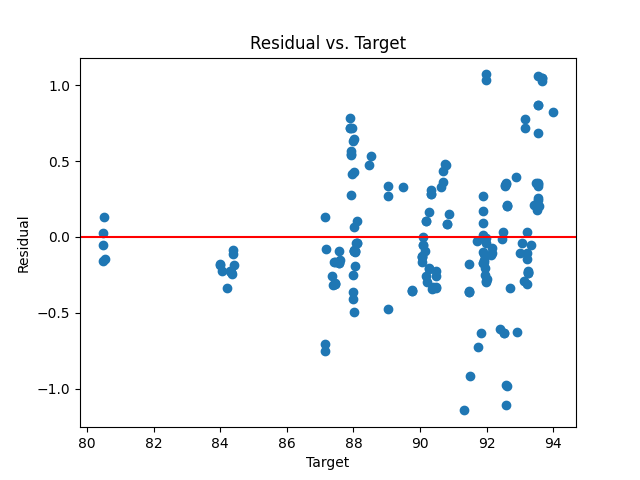
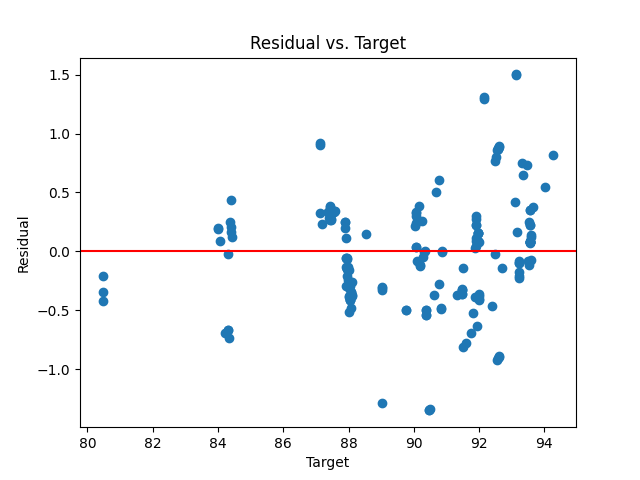
prototyping

diff --git a/main.py b/main.py
@@ -6,60 +6,103 @@ import pandas
 import statsmodels.api as statistics
 import scipy
 
-# ************************************************** Set up logging ******************************************************
+# ************************************************** Set up pandas df ******************************************************
+
+# Set pandas to display all rows and columns
+pandas.set_option('display.max_rows', None)
+pandas.set_option('display.max_columns', None)
+pandas.set_option('display.width', None)
+pandas.set_option('display.max_colwidth', None)
+
+# ************************************************** Set up logging ********************************************************
+
 logger = io_utilities.init_logger()
+logger.info(tools.get_header_separator() + "INITIALIZATION:")
 logger.info("Data postprocessing pipeline started...")
 
-# *************************************************** Select files *******************************************************
+# *************************************************** Select files *********************************************************
+
 result_file = io_utilities.select_file()
 logger.info("Result file selected: " + result_file)
 
-predictors_file = io_utilities.select_file()
-logger.info("Predictors file selected: " + predictors_file)
+dataset_file = io_utilities.select_file()
+logger.info("Dataset file selected: " + dataset_file)
 
-target_file = io_utilities.select_file()
-logger.info("Target file selected: " + target_file)
+# ************************************************* Create residuals dataframe *********************************************
 
-# ************************************************* Create dataframes ***************************************************
-regression_result = pandas.read_csv(result_file, sep = io_utilities.guess_delimiter(result_file))
+result = pandas.read_csv(result_file, sep = io_utilities.guess_delimiter(result_file))
+dataset = pandas.read_csv(dataset_file, sep = io_utilities.guess_delimiter(dataset_file))
+
 # TODO: remove last row
-regression_result = regression_result.drop(regression_result.index[-1])
-logger.info("Regression result data frame created.")
+result = result.drop(result.index[-1])
+logger.info("Regression result data frame created with shape: " + str(result.shape))
 
-predictors = pandas.read_csv(predictors_file, sep = io_utilities.guess_delimiter(predictors_file))
-logger.info("Predictors data frame created.")
+predictor = dataset.iloc[:, :-1]
+target = dataset.iloc[:, -1]
 
-target = pandas.read_csv(target_file, sep = io_utilities.guess_delimiter(target_file))
-logger.info("Predictors data frame created.")
-
-# elastic net regression
-logger.info("Elastic net regression started...")
-elastic_net = tools.elastic_net_regression(predictors, target)
+logger.info("Predictor data frame created with shape: " + str(predictor.shape))
+logger.info("Target data frame created with shape: " + str(target.shape))
 
 # ****************************************************** Basic info ********************************************************
-source.log_basic_info(regression_result, "Regression result")
-# ***************************************************** Correlation ********************************************************
-logger.info('\n' + str(predictors.corr()))
+
+logger.info(tools.get_header_separator() + 'C++ EVOREGR REGRESSION RESULT BASIC INFO:' + '\n' + str(result.describe()))
+
+source.elastic_net_regression(predictor, target)
+
+# **************************************  Pearson correlation coefficient matrix *******************************************
+
+logger.info(tools.get_header_separator() + "COVARIANCE MATRIX:")
+logger.info("Covariance matrix: \n" + str(dataset.corr()))
+
 # ************************************************  Residuals analyses  ****************************************************
-visualize.residuals_plot(regression_result.iloc[:, 0], regression_result.iloc[:, 2])
-# residuals independence test
-logger.info("Residuals independence test:")
-durbin_watson_value = statistics.stats.stattools.durbin_watson(regression_result.iloc[:, 2])
-logger.info("Durbin-Watson test: " + str(durbin_watson_value))
+
+logger.info(tools.get_header_separator() + "RESIDUALS HOMOSCEDASTICITY:")
+
+# export residuals - y plot
+visualize.residuals_plot(result.iloc[:, 0], result.iloc[:, 2])
+logger.info("Residuals simple plot exported.")
+
+# export residuals QQ plot
+visualize.qq_residuals_plot(result.iloc[:, 2])
+logger.info("Residuals QQ plot exported.")
+
+# residuals autocorrelation test
+logger.info(tools.get_header_separator() + "RESIDUALS AUTOCORRELATION:")
+durbin_watson_value = statistics.stats.stattools.durbin_watson(result.iloc[:, 2])
+
+interpretation = ""
+if durbin_watson_value < 1.5:
+    interpretation = "Positive autocorrelation"
+elif durbin_watson_value > 2.5:
+    interpretation = "Negative autocorrelation"
+else:
+    interpretation = "No autocorrelation"
+
+logger.info(f'Durbin-Watson test value: {durbin_watson_value}, Interpretation: {interpretation}')
+
 # ************************************************ Residuals normality *****************************************************
-# normality test
-logger.info("Normality tests:")
-jb_value, p_value, skewness, kurtosis = statistics.stats.stattools.jarque_bera(regression_result.iloc[:, 2])
-k2, p_value = scipy.stats.shapiro(regression_result.iloc[:, 2])
-result = scipy.stats.anderson(regression_result.iloc[:, 2])
-logger.info("Jarque-Bera test: " + str(jb_value) + " p-value: " + str(p_value) + " skewness: " + str(skewness) + " kurtosis: " + str(kurtosis))
-logger.info("Shapiro-Wilk test: " + str(k2) + " p-value: " + str(p_value))
-logger.info("Anderson-Darling test: " + str(result))
-# ************************************************* Heteroscedasticity *****************************************************
-# qq plot
-visualize.qq_residuals_plot(regression_result.iloc[:, 2])
-# Heteroscedasticity tests
-logger.info("Heteroscedasticity tests:")
-test = statistics.stats.het_breuschpagan(regression_result.iloc[:, 2], predictors)
-labels = ['LM Statistic', 'LM-Test p-value', 'F-Statistic', 'F-Test p-value']
-logger.info("Breusch-Pagan test: " + str(dict(zip(labels, test))))
+
+logger.info(tools.get_header_separator() + "RESIDUALS NORMALITY TESTS:")
+
+significance_level = 0.05
+
+# Jarque-Bera test
+jb_value, p_value, skewness, kurtosis = statistics.stats.stattools.jarque_bera(result.iloc[:, 2])
+jb_interpretation = "Jarque-Bera test: Fail to reject the null hypothesis, data has a normal distribution." if p_value > significance_level else "Jarque-Bera test: Reject the null hypothesis, data does not have a normal distribution."
+logger.info(f"Jarque-Bera test: {jb_value}, p-value: {p_value}, skewness: {skewness}, kurtosis: {kurtosis}")
+logger.info(f"Significance level: {significance_level}, interpretation: {jb_interpretation}")
+
+# Shapiro-Wilk test
+k2, p_value = scipy.stats.shapiro(result.iloc[:, 2])
+sw_interpretation = "Shapiro-Wilk test: Fail to reject the null hypothesis, data has a normal distribution." if p_value > significance_level else "Shapiro-Wilk test: Reject the null hypothesis, data does not have a normal distribution."
+logger.info(f"Shapiro-Wilk test: {k2}, p-value: {p_value}")
+logger.info(f"Significance level: {significance_level}, interpretation: {sw_interpretation}")
+
+# Anderson-Darling test
+result = scipy.stats.anderson(result.iloc[:, 2])
+ad_interpretation = "Anderson-Darling test: Fail to reject the null hypothesis, data has a normal distribution." if result.statistic < result.critical_values[2] else "Anderson-Darling test: Reject the null hypothesis, data does not have a normal distribution."
+logger.info(f"Anderson-Darling test statistic: {result.statistic}, critical value at 5% significance level: {result.critical_values[2]}")
+logger.info(f"Significance level: {significance_level}, interpretation: {ad_interpretation}")
+
+
+

diff --git a/src/tools.py b/src/tools.py
@@ -1,33 +1,5 @@
-from sklearn import linear_model
-from sklearn import model_selection
-import pandas
+def get_header_separator():
+    return '*' * 80 + ' '
 
-def elastic_net_regression(predictor, target, test_size = 0.2, random_state = None):
-    
-    # split the data into training and test sets
-    X_train, X_test, y_train, y_test = model_selection.train_test_split(predictor, target, test_size = test_size, random_state = random_state)
-    
-    elastic_net = linear_model.LinearRegression()
-    elastic_net.fit(X_train, y_train)
-    
-    # Make predictions on the test set
-    y_pred = elastic_net.predict(X_train)
-    
-    y_train = 10**y_train.squeeze()
-    y_pred = 10**y_pred.squeeze()
 
-    # Calculate the errors
-    errors = y_train - y_pred
-
-    # Create a DataFrame with y_test, y_pred, and errors
-    df = pandas.DataFrame({'Actual': y_train, 'Predicted': y_pred, 'Error': errors})
-    
-    print("Elastic Net Regression score: ", elastic_net.score(X_test, y_test))
-    
-    print("Elastic Net Regression coefficients: \n", elastic_net.coef_)
-    
-    print("Elastic Net Regression intercept: ", elastic_net.intercept_)
-    
-    print("Elastic Net residuals info: \n", df.describe())
-    
     

diff --git a/src/source.py b/src/source.py
@@ -1,4 +1,9 @@
 import logging
+from sklearn import linear_model
+from sklearn import model_selection
+import statsmodels.api as sm
+import pandas
+import numpy
 
 logger = logging.getLogger('DATA POSTPROCESSING')
 
@@ -9,4 +14,27 @@ def log_basic_info(data_frame, title):
     log_message += '\n' + str(data_frame.describe())
     log_message += '\n' + '-' * 60
     logger.info(log_message)
+
+def elastic_net_regression(predictor, target, test_size = 0.2, random_state = None):
+    
+    # split the data into training and test sets
+    X_train, X_test, y_train, y_test = model_selection.train_test_split(predictor, target, test_size = test_size, random_state = random_state)
+    
+    elastic_net = linear_model.LinearRegression()
+    result = elastic_net.fit(X_train, y_train)
+    
+    model = sm.OLS(y_train, X_train)
+    results = model.fit()
+    
+    # Make predictions on the full set
+    y_pred = results.predict(sm.add_constant(predictor))
+    
+    y_train = 10**target.squeeze()
+    y_pred = 10**y_pred.squeeze()
+
+    # Calculate the errors
+    errors = y_train - y_pred
+    
+    print("Summary")
+    print(results.summary())
     

diff --git a/src/io_utilities.py b/src/io_utilities.py
@@ -35,7 +35,7 @@ def init_logger():
     console_handler.setLevel(logging.INFO)
 
     # Create a logging format
-    formatter = logging.Formatter('')
+    formatter = logging.Formatter('%(asctime)s - %(name)s - %(levelname)s - %(message)s')
     handler.setFormatter(formatter)
     console_handler.setFormatter(formatter)
 
